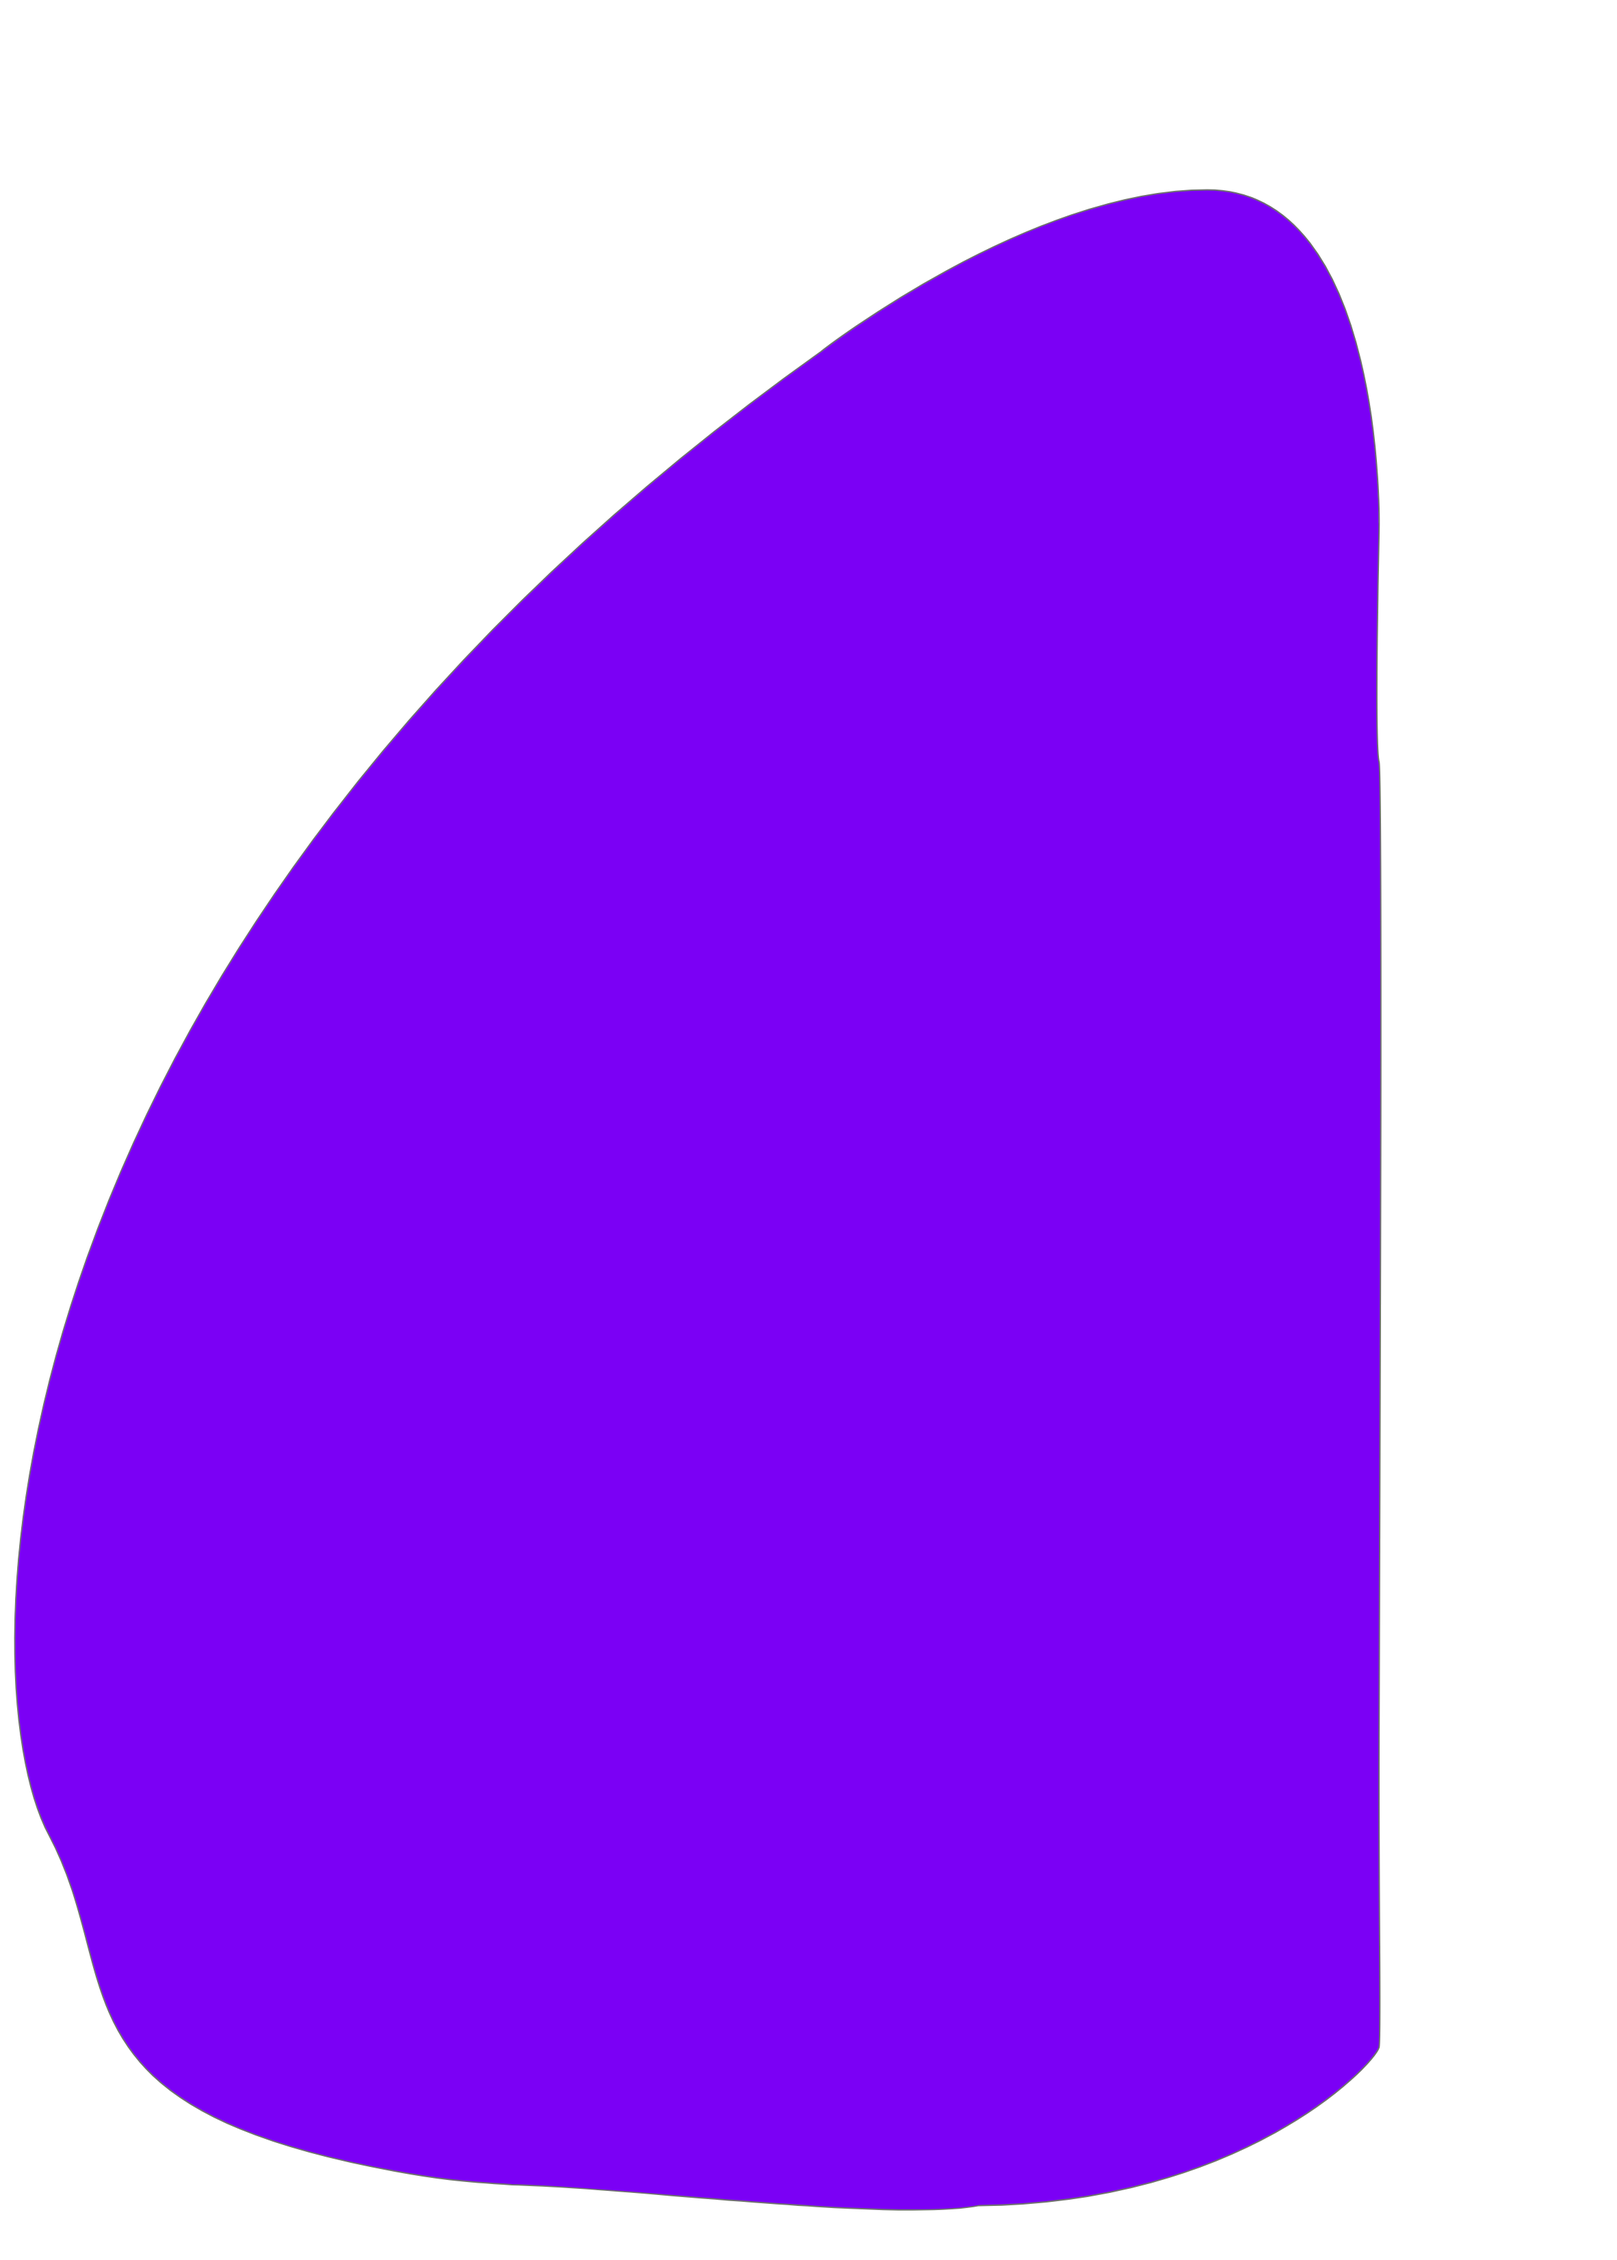
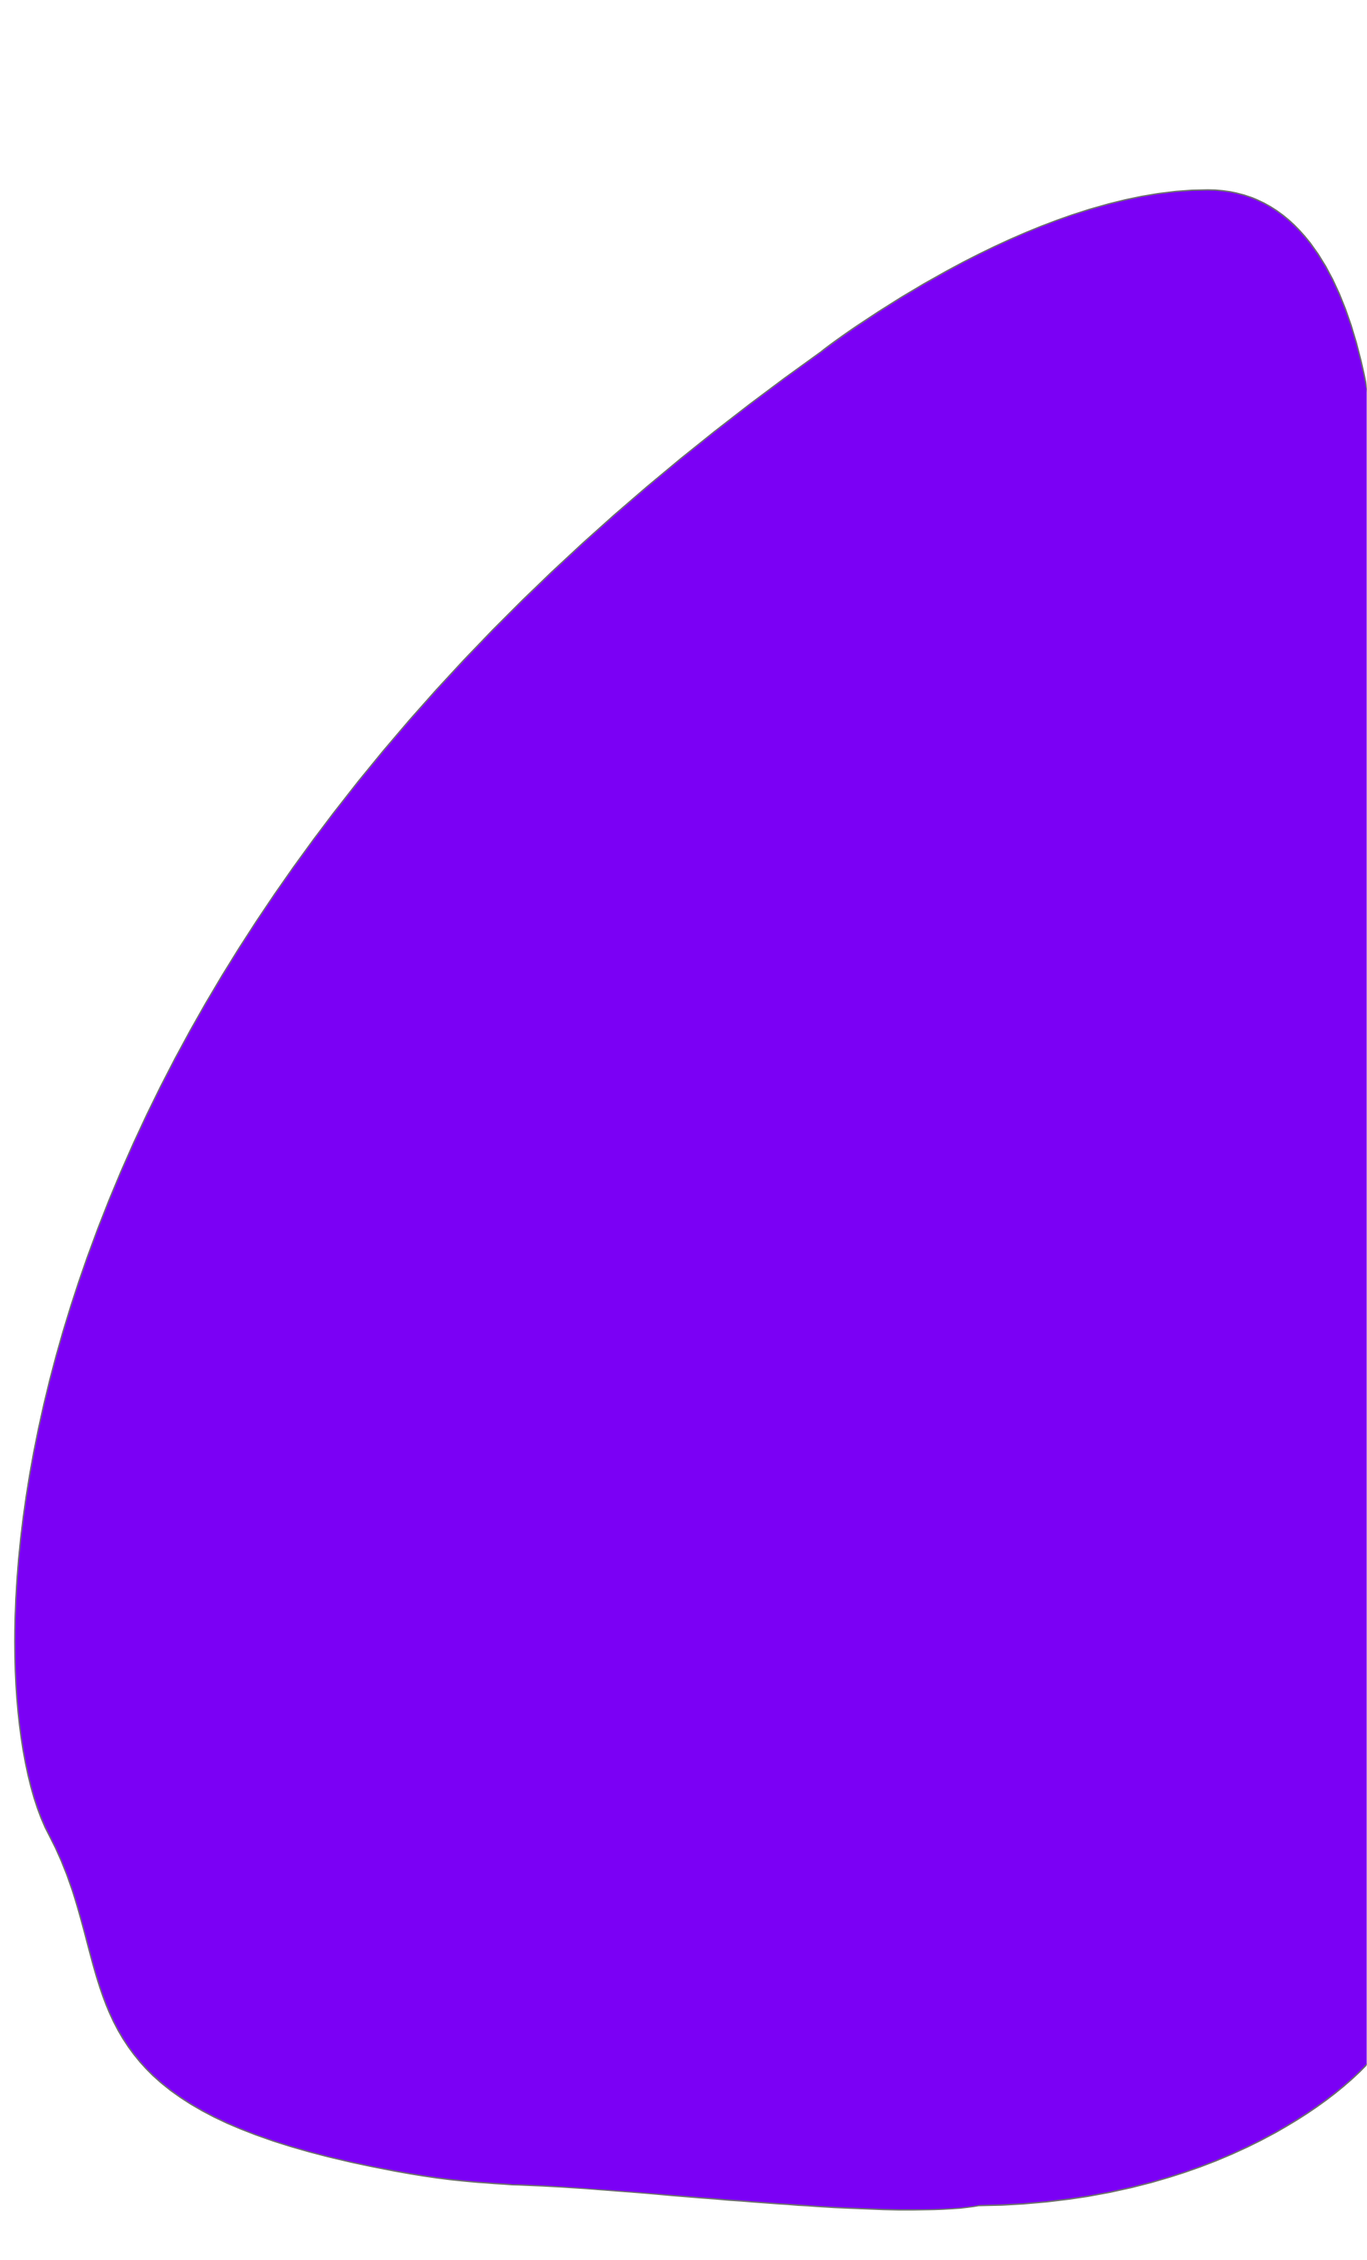
bg image fix

diff --git a/static/style.css b/static/style.css
@@ -88,8 +88,8 @@ a {
 .bg-img {
     /* background: url("/img/Grupo\ de\ desplazamiento\ 1.svg"); */
     /* background: url("/img/Grupo\ de\ desplazamiento\ 1.png"); */
-    min-height: 100vh;
-    height: fit-content;
+    height: 100vh;
+    /* height: fit-content; */
     position: absolute;
     width: 50vw;
     top: 0;
@@ -101,8 +101,16 @@ a {
     
 }
 
-.image {
+.image1, .image2 {
     width: 100%;
+}
+
+.image1{
+    height: 100vh;
+}
+
+.image2 {
+    display: none;
 }
 
 main {
@@ -171,7 +179,7 @@ main {
     }
 
     .bg-img {
-        top: 350px;
+        top: 550px;
     }
 }
 
@@ -194,9 +202,21 @@ main {
 
     .bg-img {
         display: block;
-        top: 50vh;
-        height: fit-content;
-        width: 400px;
+        top: 40vh;
+        /* height: fit-content; */
+        width: 70vw;
+    }
+
+    .image1 {
+        display: none;
+    }
+     
+    .image2 {
+        position: absolute;
+        display: block;
+        width: 100vw;
+        height: 50vh;
+        right: 0;
     }
 
     main {
@@ -235,6 +255,8 @@ main {
         border-radius: 3px;
         margin: 3px;
     }
+
+    
 }
 
 

diff --git a/index.html b/index.html
@@ -39,7 +39,8 @@
         
         <main>
             <div class="bg-img">
-                <img src="/img/Grupo de desplazamiento 1.png" class="image">
+                <img src="/img/Grupo de desplazamiento 1.png" class="image1">
+                <img src="/img/Grupo de desplazamiento 1@2x.png" class="image2">
             </div>
             <div class="desc">
                 <h1 class="welcome-message">
